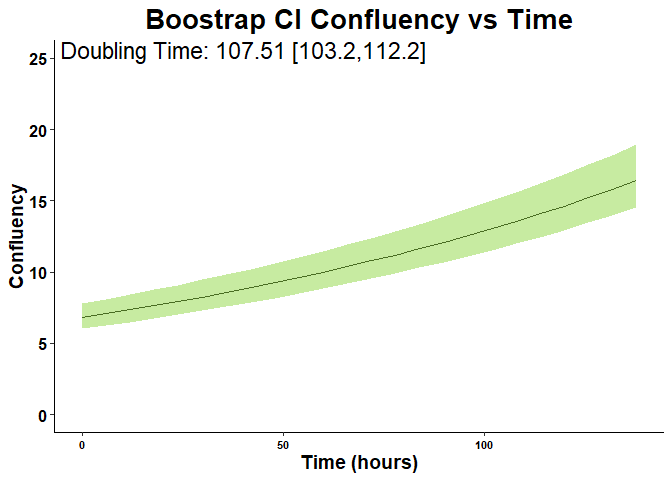
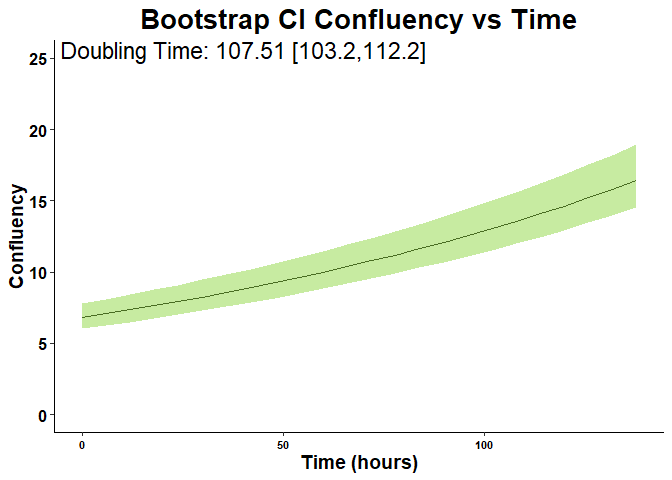
README update

Changed region(s): [[0.1875, 0.0, 0.875, 0.0938]]

diff --git a/README.md b/README.md
@@ -184,7 +184,7 @@ function and specify ‘plot_type = 4’ in the growth_vs_time_plot()
 function.
 
 ``` r
-# Fit a mixed-effect model and include boostrap estiamtes
+# Fit a mixed-effect model and include bootstrap estimates
 exp_mix_model_summary <- growth_curve_model_fit(
   data_frame = exp_mixed_data,
   function_type = "exponential",
@@ -207,7 +207,7 @@ growth_vs_time_plot(
   growth_metric_name = "Confluency",
   time_name = "Time (hours)",
   cluster_name = "Well",
-  plot_title = "Boostrap CI Confluency vs Time",
+  plot_title = "Bootstrap CI Confluency vs Time",
   y_limits = c(0, 25)
 )
 ```
